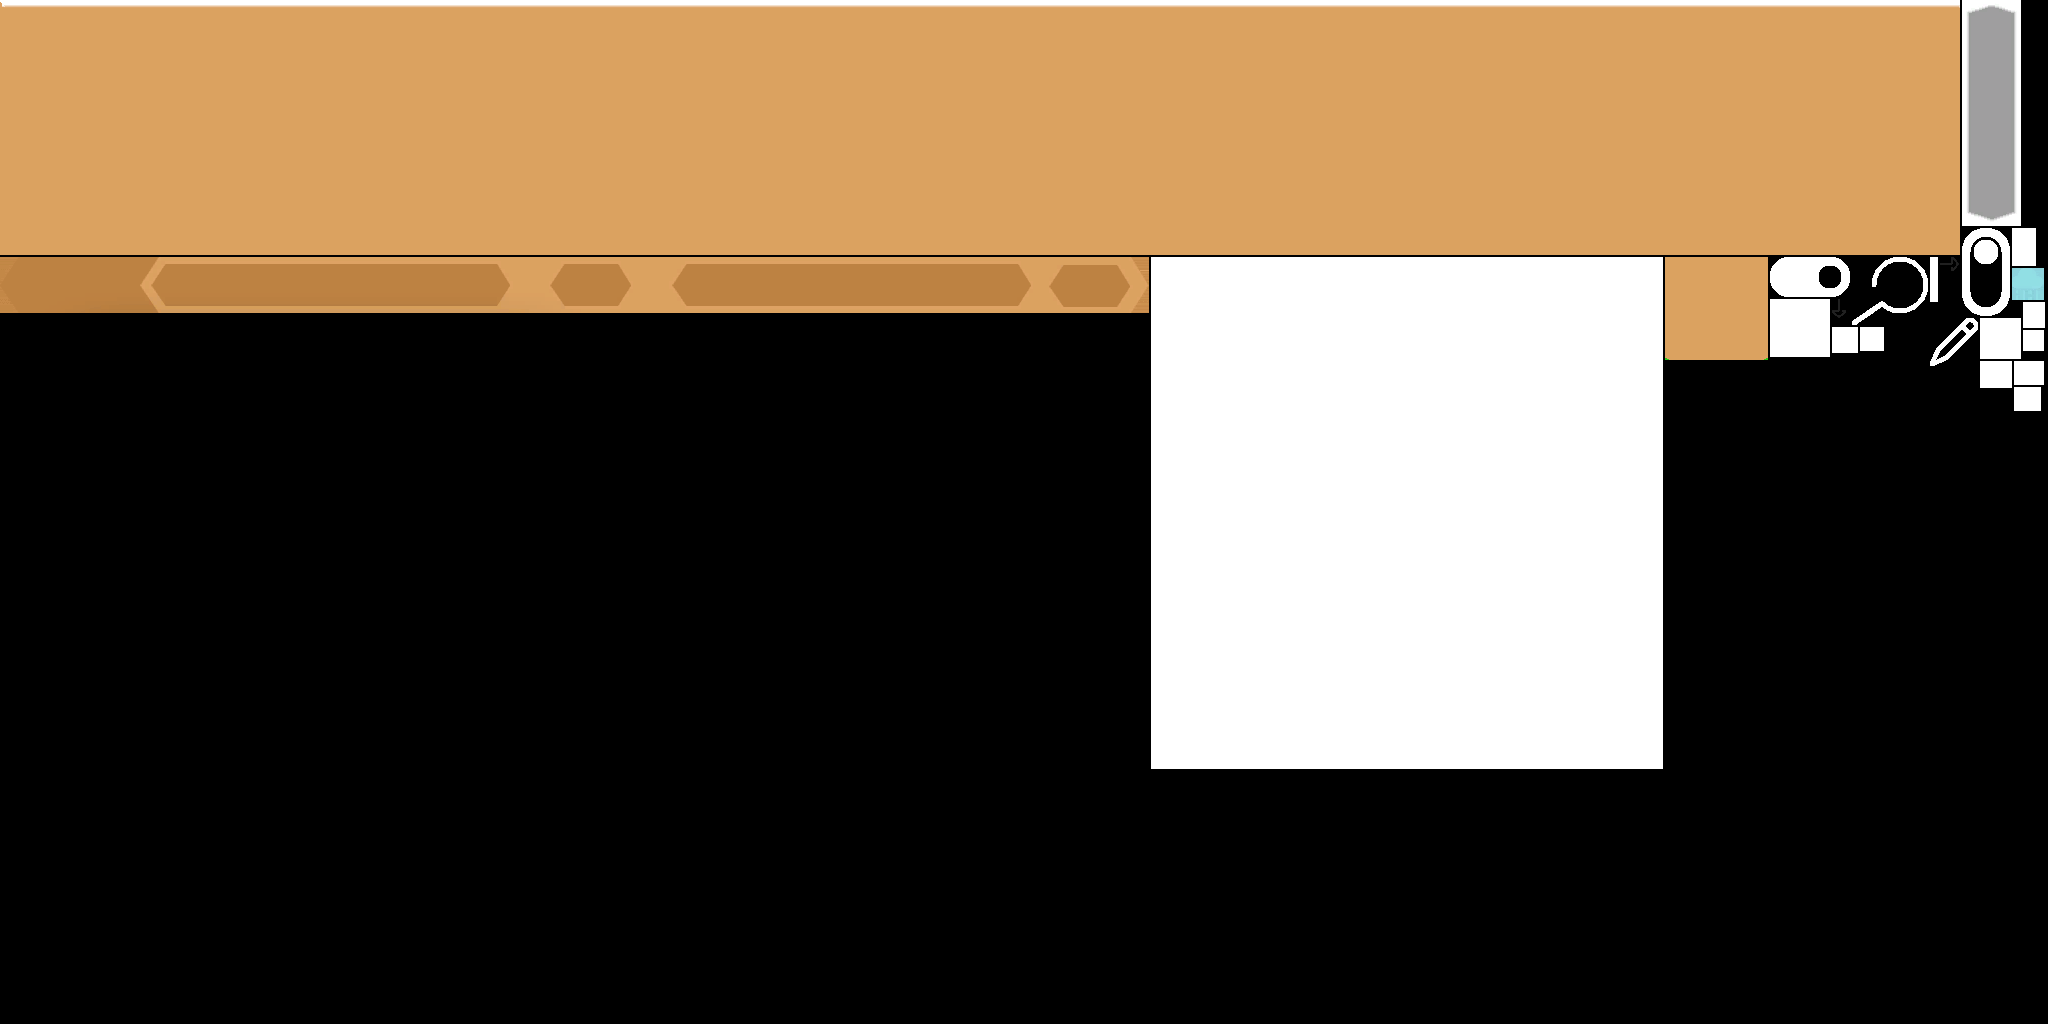
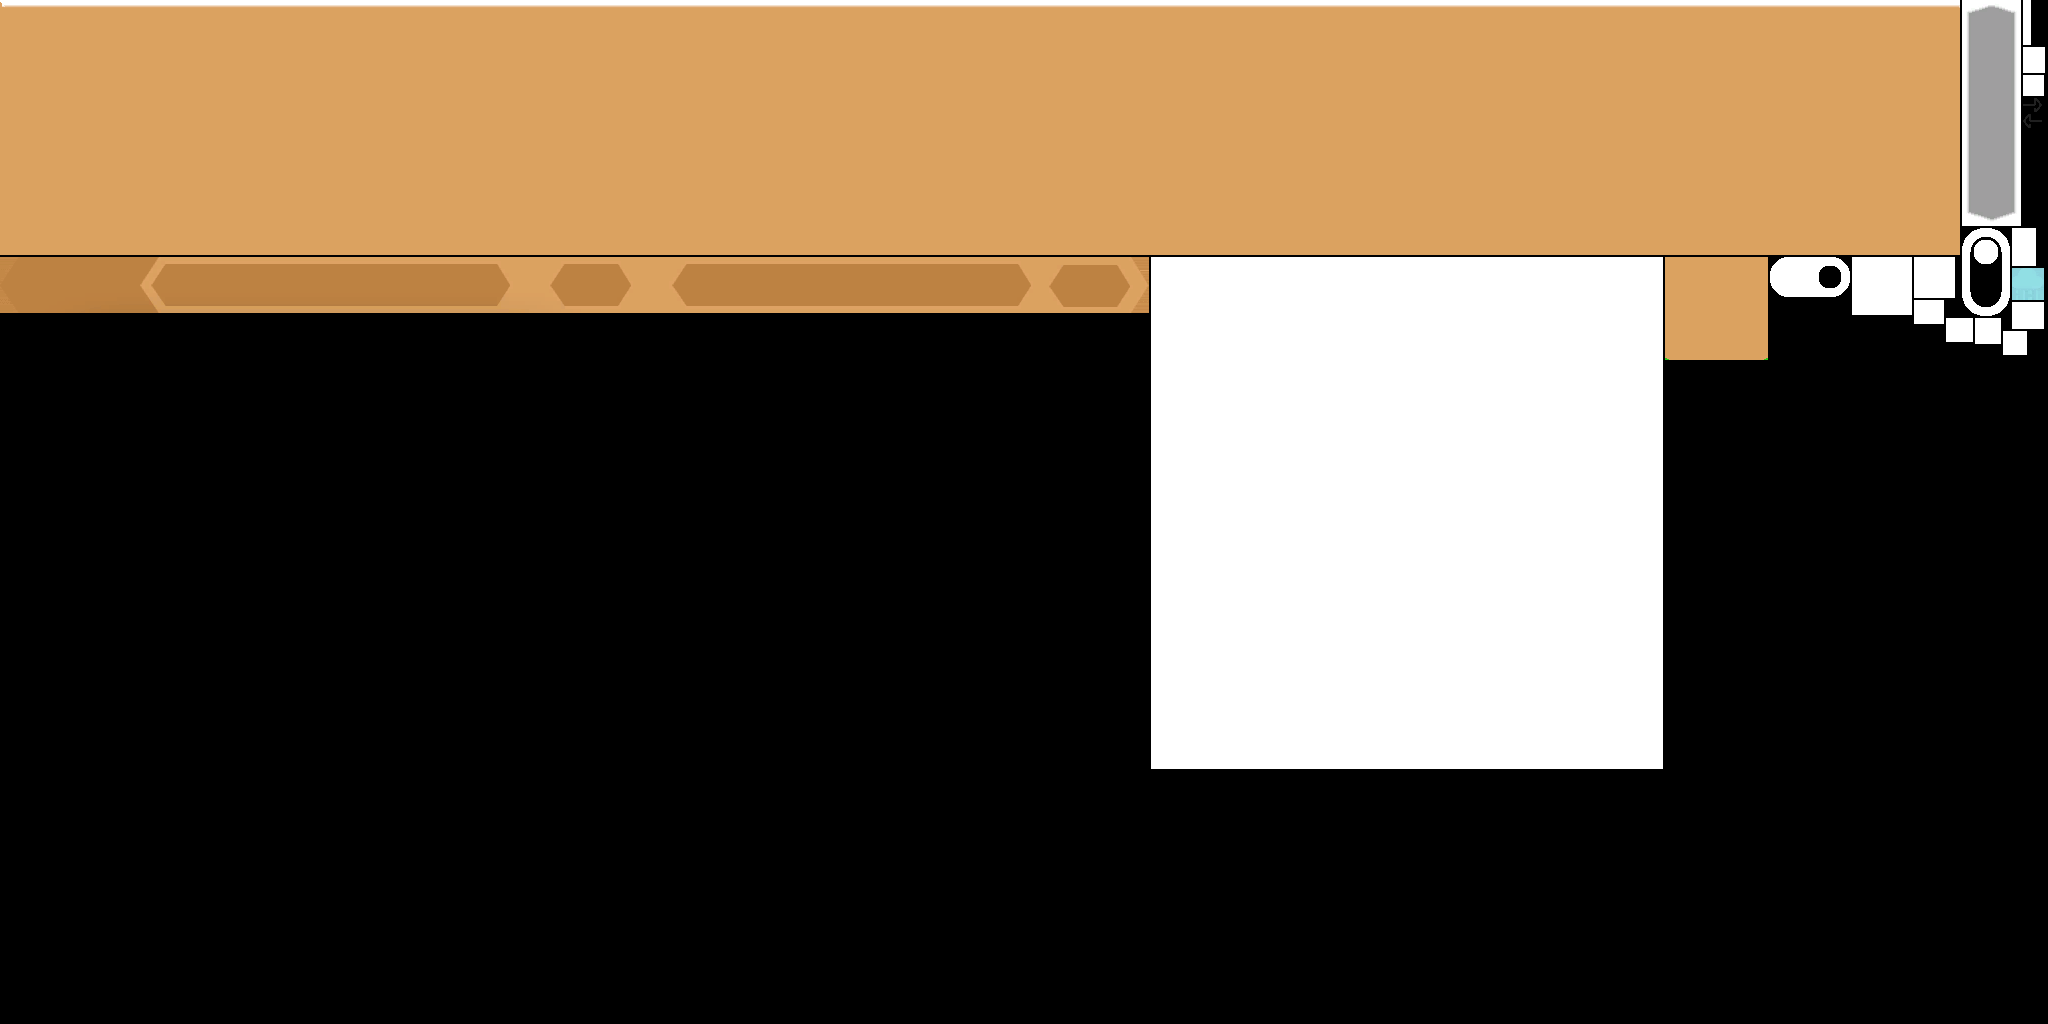
[优化] UI自适应

Changed region(s): [[0.8438, 0.25, 1.0, 0.4062], [0.9688, 0.0, 1.0, 0.0938]]

diff --git a/Assets/GameMain/Scripts/UI/FguiAutoScripts/GameMainUIPackage/MainPage.cs b/Assets/GameMain/Scripts/UI/FguiAutoScripts/GameMainUIPackage/MainPage.cs
@@ -8,19 +8,22 @@ namespace OasisProject3D.UI.GameMainUIPackage
     public partial class MainPage : GComponent
     {
         public Controller BuildingListCtrl;
-        public GProgressBar GreenRateBar;
+        public Controller SettingPanelCtrl;
         public BuildingTab BuildingList;
         public GButton BuildBtn;
         public GImage TopBarBackground;
+        public GProgressBar GreenRateBar;
         public GTextField PeopleNum;
         public GTextField SaplingNum;
         public GTextField WaterNum;
         public GTextField WoodNum;
-        public GButton StopBtn;
-        public GButton Speed2XBtn;
         public GButton Speed1XBtn;
+        public GButton Speed2XBtn;
+        public GButton Speed3XBtn;
         public GButton WeatherBtn;
         public GButton SettingBtn;
+        public ConfirmWindow SettingPanel;
+        public GGroup TopBar;
         public const string URL = "ui://t09fsbe0jlch1k";
 
         public static MainPage CreateInstance()
@@ -33,19 +36,22 @@ namespace OasisProject3D.UI.GameMainUIPackage
             base.ConstructFromXML(xml);
 
             BuildingListCtrl = GetControllerAt(0);
-            GreenRateBar = (GProgressBar)GetChildAt(0);
-            BuildingList = (BuildingTab)GetChildAt(1);
-            BuildBtn = (GButton)GetChildAt(2);
-            TopBarBackground = (GImage)GetChildAt(3);
+            SettingPanelCtrl = GetControllerAt(1);
+            BuildingList = (BuildingTab)GetChildAt(0);
+            BuildBtn = (GButton)GetChildAt(1);
+            TopBarBackground = (GImage)GetChildAt(2);
+            GreenRateBar = (GProgressBar)GetChildAt(3);
             PeopleNum = (GTextField)GetChildAt(8);
             SaplingNum = (GTextField)GetChildAt(9);
             WaterNum = (GTextField)GetChildAt(10);
             WoodNum = (GTextField)GetChildAt(11);
-            StopBtn = (GButton)GetChildAt(12);
+            Speed1XBtn = (GButton)GetChildAt(12);
             Speed2XBtn = (GButton)GetChildAt(13);
-            Speed1XBtn = (GButton)GetChildAt(14);
+            Speed3XBtn = (GButton)GetChildAt(14);
             WeatherBtn = (GButton)GetChildAt(15);
             SettingBtn = (GButton)GetChildAt(16);
+            SettingPanel = (ConfirmWindow)GetChildAt(17);
+            TopBar = (GGroup)GetChildAt(18);
         }
     }
 }

diff --git a/Assets/GameMain/Scripts/UI/FguiAutoScripts/GameMainUIPackage/BuildingTab.cs b/Assets/GameMain/Scripts/UI/FguiAutoScripts/GameMainUIPackage/BuildingTab.cs
@@ -9,11 +9,11 @@ namespace OasisProject3D.UI.GameMainUIPackage
     {
         public Controller TabSelected;
         public GImage BuildingListBackground;
-        public GList BuildList;
-        public BuildingTypeBtn BuildingTabAllBtn;
+        public GList BuildingCaseList;
+        public BuildingTypeBtn BuildingTabAnyBtn;
         public BuildingTypeBtn BuildingTabFunctionBtn;
-        public BuildingTypeBtn BuildingEcoTabBtn;
-        public BuildingTypeBtn BuildingTabProductionBtn;
+        public BuildingTypeBtn BuildingTabEcoBtn;
+        public BuildingTypeBtn BuildingTabProductBtn;
         public BuildingTypeBtn BuildingTabStorageBtn;
         public GGroup BuildingTypeBtnList;
         public const string URL = "ui://t09fsbe0jlch1r";
@@ -29,11 +29,11 @@ namespace OasisProject3D.UI.GameMainUIPackage
 
             TabSelected = GetControllerAt(0);
             BuildingListBackground = (GImage)GetChildAt(0);
-            BuildList = (GList)GetChildAt(1);
-            BuildingTabAllBtn = (BuildingTypeBtn)GetChildAt(2);
+            BuildingCaseList = (GList)GetChildAt(1);
+            BuildingTabAnyBtn = (BuildingTypeBtn)GetChildAt(2);
             BuildingTabFunctionBtn = (BuildingTypeBtn)GetChildAt(3);
-            BuildingEcoTabBtn = (BuildingTypeBtn)GetChildAt(4);
-            BuildingTabProductionBtn = (BuildingTypeBtn)GetChildAt(5);
+            BuildingTabEcoBtn = (BuildingTypeBtn)GetChildAt(4);
+            BuildingTabProductBtn = (BuildingTypeBtn)GetChildAt(5);
             BuildingTabStorageBtn = (BuildingTypeBtn)GetChildAt(6);
             BuildingTypeBtnList = (GGroup)GetChildAt(7);
         }

diff --git a/Assets/GameMain/Scripts/UI/FguiAutoScripts/GameMainUIPackage/BuildingDescTab.cs b/Assets/GameMain/Scripts/UI/FguiAutoScripts/GameMainUIPackage/BuildingDescTab.cs
@@ -1,0 +1,37 @@
+/** This is an automatically generated class by FairyGUI. Please do not modify it. **/
+
+using FairyGUI;
+using FairyGUI.Utils;
+
+namespace OasisProject3D.UI.GameMainUIPackage
+{
+    public partial class BuildingDescTab : GComponent
+    {
+        public Controller buildingStateCtrl;
+        public GTextField buildingName;
+        public GLoader buildingIcon;
+        public GTextField buildingDesc;
+        public GButton lastBuilding;
+        public GButton nextBuilding;
+        public GButton buildingStateIcon;
+        public const string URL = "ui://t09fsbe0jobk20";
+
+        public static BuildingDescTab CreateInstance()
+        {
+            return (BuildingDescTab)UIPackage.CreateObject("GameMainUIPackage", "BuildingDescTab");
+        }
+
+        public override void ConstructFromXML(XML xml)
+        {
+            base.ConstructFromXML(xml);
+
+            buildingStateCtrl = GetControllerAt(0);
+            buildingName = (GTextField)GetChildAt(2);
+            buildingIcon = (GLoader)GetChildAt(3);
+            buildingDesc = (GTextField)GetChildAt(4);
+            lastBuilding = (GButton)GetChildAt(5);
+            nextBuilding = (GButton)GetChildAt(6);
+            buildingStateIcon = (GButton)GetChildAt(7);
+        }
+    }
+}

diff --git a/Assets/GameMain/Scripts/UI/FguiAutoScripts/GameMainUIPackage/ConfirmWindow.cs b/Assets/GameMain/Scripts/UI/FguiAutoScripts/GameMainUIPackage/ConfirmWindow.cs
@@ -1,0 +1,31 @@
+/** This is an automatically generated class by FairyGUI. Please do not modify it. **/
+
+using FairyGUI;
+using FairyGUI.Utils;
+
+namespace OasisProject3D.UI.GameMainUIPackage
+{
+    public partial class ConfirmWindow : GComponent
+    {
+        public GImage Background;
+        public GTextField TitleText;
+        public GButton YesBtn;
+        public GButton NoBtn;
+        public const string URL = "ui://t09fsbe0lhyb1y";
+
+        public static ConfirmWindow CreateInstance()
+        {
+            return (ConfirmWindow)UIPackage.CreateObject("GameMainUIPackage", "ConfirmWindow");
+        }
+
+        public override void ConstructFromXML(XML xml)
+        {
+            base.ConstructFromXML(xml);
+
+            Background = (GImage)GetChildAt(0);
+            TitleText = (GTextField)GetChildAt(1);
+            YesBtn = (GButton)GetChildAt(2);
+            NoBtn = (GButton)GetChildAt(3);
+        }
+    }
+}

diff --git a/Assets/GameMain/Scripts/UI/FguiAutoScripts/GameMainUIPackage/GameMainUIPackageBinder.cs b/Assets/GameMain/Scripts/UI/FguiAutoScripts/GameMainUIPackage/GameMainUIPackageBinder.cs
@@ -12,7 +12,8 @@ namespace OasisProject3D.UI.GameMainUIPackage
             UIObjectFactory.SetPackageItemExtension(BuildingTab.URL, typeof(BuildingTab));
             UIObjectFactory.SetPackageItemExtension(BuildingTypeBtn.URL, typeof(BuildingTypeBtn));
             UIObjectFactory.SetPackageItemExtension(BuildingIconCase.URL, typeof(BuildingIconCase));
-            UIObjectFactory.SetPackageItemExtension(Unit_SettingWindow.URL, typeof(Unit_SettingWindow));
+            UIObjectFactory.SetPackageItemExtension(BuildingDescTab.URL, typeof(BuildingDescTab));
+            UIObjectFactory.SetPackageItemExtension(ConfirmWindow.URL, typeof(ConfirmWindow));
         }
     }
 }

diff --git a/Assets/GameMain/Scripts/UI/FguiAutoScripts/GameMainUIPackage/BuildingIconCase.cs b/Assets/GameMain/Scripts/UI/FguiAutoScripts/GameMainUIPackage/BuildingIconCase.cs
@@ -8,6 +8,7 @@ namespace OasisProject3D.UI.GameMainUIPackage
     public partial class BuildingIconCase : GButton
     {
         public GLoader BuildingIcon;
+        public GTextField BuildingName;
         public const string URL = "ui://t09fsbe0jlch1t";
 
         public static BuildingIconCase CreateInstance()
@@ -19,7 +20,8 @@ namespace OasisProject3D.UI.GameMainUIPackage
         {
             base.ConstructFromXML(xml);
 
-            BuildingIcon = (GLoader)GetChildAt(1);
+            BuildingIcon = (GLoader)GetChildAt(0);
+            BuildingName = (GTextField)GetChildAt(2);
         }
     }
 }
